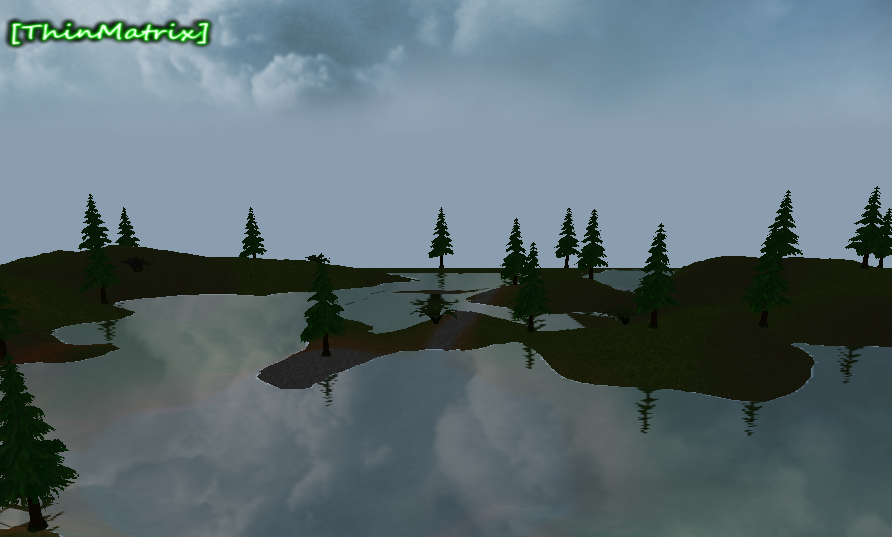
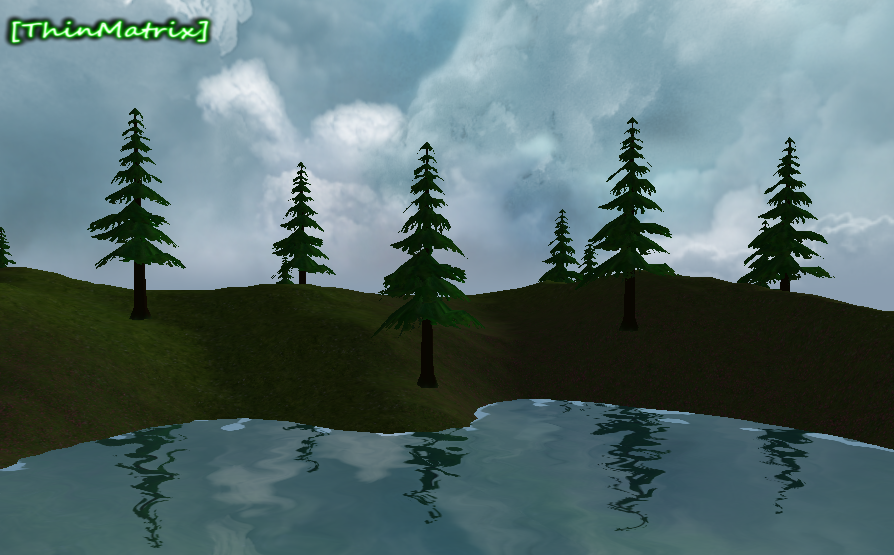
Finish water tutorial 5

diff --git a/src/engine_tester/game_engine.cpp b/src/engine_tester/game_engine.cpp
@@ -22,27 +22,27 @@ void GameEngine::doMainLoop() {
     terrains_.emplace_back(-0.5f, -0.5f, loader_, texturePack, blendMap, "res/textures/terrain/heightmap.png");
 
     // set light positions
-    glm::vec3 lightHeight = glm::vec3(0, 17, 0);
-    glm::vec3 lightPos1 = glm::vec3(-80, terrains_.front().getHeightOfTerrain(-80, -90), -90);
-    glm::vec3 lightPos2 = glm::vec3(65, terrains_.front().getHeightOfTerrain(65, -10), -10);
-    glm::vec3 lightPos3 = glm::vec3(-20, terrains_.front().getHeightOfTerrain(-20, 150), 150);
+    // glm::vec3 lightHeight = glm::vec3(0, 17, 0);
+    // glm::vec3 lightPos1 = glm::vec3(-80, terrains_.front().getHeightOfTerrain(-80, -90), -90);
+    // glm::vec3 lightPos2 = glm::vec3(65, terrains_.front().getHeightOfTerrain(65, -10), -10);
+    // glm::vec3 lightPos3 = glm::vec3(-20, terrains_.front().getHeightOfTerrain(-20, 150), 150);
 
     // add lights
-    lights_.emplace_back(glm::vec3(0, 1000, -5000), glm::vec3(0.4f, 0.4f, 0.4f));
-    lights_.emplace_back(lightPos1 + lightHeight, glm::vec3(2, 0, 0), glm::vec3(1.0f, 0.01f, 0.002f));
-    lights_.emplace_back(lightPos2 + lightHeight, glm::vec3(0, 2, 2), glm::vec3(1.0f, 0.01f, 0.002f));
-    lights_.emplace_back(lightPos3 + lightHeight, glm::vec3(2, 2, 0), glm::vec3(1.0f, 0.01f, 0.002f));
+    lights_.emplace_back(glm::vec3(0, 1000, -1000), glm::vec3(0.4f, 0.4f, 0.4f));
+    // lights_.emplace_back(lightPos1 + lightHeight, glm::vec3(2, 0, 0), glm::vec3(1.0f, 0.01f, 0.002f));
+    // lights_.emplace_back(lightPos2 + lightHeight, glm::vec3(0, 2, 2), glm::vec3(1.0f, 0.01f, 0.002f));
+    // lights_.emplace_back(lightPos3 + lightHeight, glm::vec3(2, 2, 0), glm::vec3(1.0f, 0.01f, 0.002f));
 
     // create lamp model
-    ModelTexture lampTexture(loader_.loadTexture("res/textures/lamp/lamp.png"));
-    lampTexture.setFakeLighting(true);
-    lampTexture.setNumberOfRows(1);
-    auto lamp = TexturedModel(ObjLoader::loadObjModel("res/models/lamp/lamp.obj", loader_), lampTexture);
+    // ModelTexture lampTexture(loader_.loadTexture("res/textures/lamp/lamp.png"));
+    // lampTexture.setFakeLighting(true);
+    // lampTexture.setNumberOfRows(1);
+    // auto lamp = TexturedModel(ObjLoader::loadObjModel("res/models/lamp/lamp.obj", loader_), lampTexture);
 
     // place lamp entities
-    entities_.emplace_back(&lamp, lightPos1, glm::vec3(0, 0, 0), glm::vec3(1, 1, 1));
-    entities_.emplace_back(&lamp, lightPos2, glm::vec3(0, 0, 0), glm::vec3(1, 1, 1));
-    entities_.emplace_back(&lamp, lightPos3, glm::vec3(0, 0, 0), glm::vec3(1, 1, 1));
+    // entities_.emplace_back(&lamp, lightPos1, glm::vec3(0, 0, 0), glm::vec3(1, 1, 1));
+    // entities_.emplace_back(&lamp, lightPos2, glm::vec3(0, 0, 0), glm::vec3(1, 1, 1));
+    // entities_.emplace_back(&lamp, lightPos3, glm::vec3(0, 0, 0), glm::vec3(1, 1, 1));
 
     // create tree model
     ModelTexture treeTexture(loader_.loadTexture("res/textures/pine/pine.png"));

diff --git a/src/water/water_renderer.cpp b/src/water/water_renderer.cpp
@@ -1,16 +1,16 @@
 #include "water/water_renderer.hpp"
+#include "render_engine/display_manager.hpp"
 #include "toolbox/math.hpp"
+#include <cmath>
 
 
 namespace {
-    const std::vector<GLfloat> POSITIONS {
-        -1, -1,
-        -1,  1,
-         1, -1,
-         1, -1,
-        -1,  1,
-         1,  1
-    };
+    constexpr auto DUDV_MAP = "res/textures/water/waterDUDV.png";
+
+    constexpr float WAVE_SPEED = 0.03f;
+
+    const std::vector<GLfloat> POSITIONS
+        { -1, -1, -1,  1, 1, -1, 1, -1, -1,  1, 1,  1 };
 }
 
 constexpr float WaterTile::TILE_SIZE;
@@ -19,6 +19,7 @@ WaterRenderer::WaterRenderer(Loader &loader, glm::mat4 const& projection,
     WaterFrameBuffers const& fbos)
     : quad_(loader.loadToVao(POSITIONS, 2))
     , fbos_(fbos)
+    , dudvTextureId_(loader.loadTexture(DUDV_MAP))
 {
     shader_.start();
     shader_.connectTextureUnits();
@@ -27,7 +28,7 @@ WaterRenderer::WaterRenderer(Loader &loader, glm::mat4 const& projection,
 }
 
 void WaterRenderer::render(std::vector<WaterTile> const& water,
-    Camera const& camera) const
+    Camera const& camera)
 {
     prepareRender(camera);
     for (WaterTile const& tile : water) {
@@ -41,15 +42,20 @@ void WaterRenderer::render(std::vector<WaterTile> const& water,
     unbind();
 }
 
-void WaterRenderer::prepareRender(Camera const& camera) const {
+void WaterRenderer::prepareRender(Camera const& camera) {
     shader_.start();
     shader_.loadViewMatrix(camera);
+    moveFactor_ += WAVE_SPEED * DisplayManager::getFrameTime().asSeconds();
+    moveFactor_ = std::fmod(moveFactor_, 1);
+    shader_.loadMoveFactor(moveFactor_);
     glBindVertexArray(quad_.getVaoId());
     glEnableVertexAttribArray(0);
     glActiveTexture(GL_TEXTURE0);
     glBindTexture(GL_TEXTURE_2D, fbos_.getReflectionTexture());
     glActiveTexture(GL_TEXTURE1);
     glBindTexture(GL_TEXTURE_2D, fbos_.getRefractionTexture());
+    glActiveTexture(GL_TEXTURE2);
+    glBindTexture(GL_TEXTURE_2D, dudvTextureId_);
 }
 
 void WaterRenderer::unbind() const {

diff --git a/src/water/water_shader.cpp b/src/water/water_shader.cpp
@@ -22,6 +22,8 @@ void WaterShader::getAllUniformLocations() {
     projectionMatrixLocation_ = getUniformLocation("projectionMatrix");
     reflectionTextureLocation_ = getUniformLocation("reflectionTexture");
     refractionTextureLocation_ = getUniformLocation("refractionTexture");
+    dudvMapLocation_ = getUniformLocation("dudvMap");
+    moveFactorLocation_ = getUniformLocation("moveFactor");
 }
 
 void WaterShader::loadModelMatrix(glm::mat4 const& matrix) const {
@@ -36,7 +38,12 @@ void WaterShader::loadProjectionMatrix(glm::mat4 const& matrix) const {
     loadMatrix(projectionMatrixLocation_, matrix);
 }
 
+void WaterShader::loadMoveFactor(GLfloat moveFactor) const {
+    loadFloat(moveFactorLocation_, moveFactor);
+}
+
 void WaterShader::connectTextureUnits() const {
     loadInteger(reflectionTextureLocation_, 0);
     loadInteger(refractionTextureLocation_, 1);
+    loadInteger(dudvMapLocation_, 2);
 }

diff --git a/src/water/water_renderer.hpp b/src/water/water_renderer.hpp
@@ -12,14 +12,16 @@ public:
         glm::mat4 const& projection,
         WaterFrameBuffers const& fbos);
 
-    void render(std::vector<WaterTile> const& water, Camera const& camera) const;
+    void render(std::vector<WaterTile> const& water, Camera const& camera);
 
 private:
-    void prepareRender(Camera const& camera) const;
+    void prepareRender(Camera const& camera);
     void unbind() const;
     void loadProjectionMatrix(glm::mat4 const& projection) const;
 
     RawModel quad_;
     WaterShader shader_{};
     WaterFrameBuffers const& fbos_;
+    GLuint dudvTextureId_;
+    float moveFactor_ = 0.0f;
 };

diff --git a/src/water/water_shader.hpp b/src/water/water_shader.hpp
@@ -9,6 +9,7 @@ public:
     void loadModelMatrix(glm::mat4 const& matrix) const;
     void loadViewMatrix(Camera const& camera) const;
     void loadProjectionMatrix(glm::mat4 const& matrix) const;
+    void loadMoveFactor(GLfloat moveFactor) const;
     void connectTextureUnits() const;
 
 protected:
@@ -21,4 +22,6 @@ private:
     GLint projectionMatrixLocation_;
     GLint reflectionTextureLocation_;
     GLint refractionTextureLocation_;
+    GLint dudvMapLocation_;
+    GLint moveFactorLocation_;
 };
